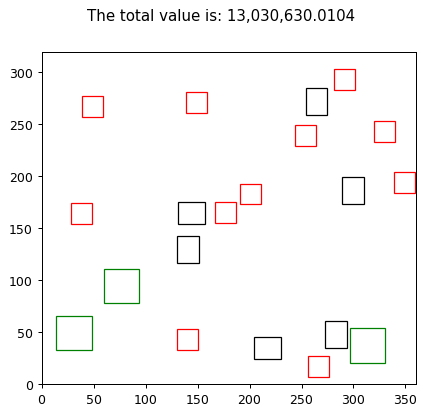
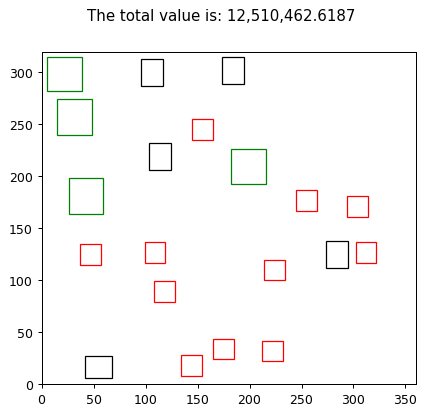
hillclimber

diff --git a/hillclimber_algoritm.py b/hillclimber_algoritm.py
@@ -12,7 +12,6 @@ Y_DIMENSION = 320
 
 def main(total_houses, iterations_hill, buildings):
 
-
     directions = ['left', 'up', 'right', 'down']
 
     for i in range(iterations_hill):
@@ -20,15 +19,13 @@ def main(total_houses, iterations_hill, buildings):
         for building in buildings:
 
             map_score = helpers.calculate_score(buildings)
-
-            print "map score = ", map_score
+            print map_score
 
             for direction in directions:
 
                 possible = check_overlap(building, buildings, direction)
 
-                # print "possible = ", possible
-                best_direction = 'none'
+                best_direction = None
 
                 if direction == 'left' and possible:
                     score_left = moved_score(building, buildings, direction)
@@ -55,7 +52,7 @@ def main(total_houses, iterations_hill, buildings):
                         best_direction = direction
 
                 helpers.move(building, best_direction)
-                
+
     return buildings, map_score
 
 def check_overlap(building, buildings, direction):
@@ -87,12 +84,14 @@ def check_overlap(building, buildings, direction):
 
 def moved_score(building, buildings, direction):
 
-    old_building = copy.deepcopy(building)
+    # visualisation.print_canvas(buildings, '1')
     helpers.move(building, direction)
+    # visualisation.print_canvas(buildings, '2')
     score = helpers.calculate_score(buildings)
 
     if direction == 'left':
         helpers.move(building, 'right')
+        # visualisation.print_canvas(buildings, '3')
 
     if direction == 'up':
         helpers.move(building, 'down')

diff --git a/main.py b/main.py
@@ -19,8 +19,10 @@ if __name__ == "__main__":
         algoritm = "random"
         iterations = input("How many iterations?: ")
 
-        buildings, best_iteration = random_algoritm.main(total_houses, iterations)
 
+        buildings, best_iteration = random_algoritm.main(total_houses, iterations)
+    	stop = timeit.default_timer()
+    	print "De tijd is: ", stop - start
         print ("best iteration is", best_iteration)
 
         # visualisation.main(buildings, algoritm, 0, 0, False)
@@ -34,11 +36,17 @@ if __name__ == "__main__":
 
         buildings, best_iteration = random_algoritm.main(total_houses, iterations)
 
+        visualisation.print_canvas(buildings, 'random')
+
+        print best_iteration
+
         iterations_hill = input("How many iterations for hillclimber: ")
 
         buildings, map_score = hillclimber_algoritm.main(total_houses, iterations_hill, buildings)
-        
-        visualisation.main(buildings, algoritm, total_houses, map_score, True)
+
+        print map_score
+
+        visualisation.print_canvas(buildings, 'hill')
 
     elif algoritm_choice == 3:
         algoritm = "expanding_universe"

diff --git a/visualisation.py b/visualisation.py
@@ -60,7 +60,7 @@ def main(buildings, output_file, total_houses, best_iteration, save_in_file):
 
     # safe figure
     if save_in_file:
-        fig1.savefig(path.join(outpath,"random_{}.png".format(total_houses)), dpi=90, bbox_inches='tight')
+        fig1.savefig(path.join(outpath,"{}_{}.png".format(output_file, total_houses)), dpi=90, bbox_inches='tight')
 
     else:
         fig1.savefig(output_file, dpi=90, bbox_inches='tight')
